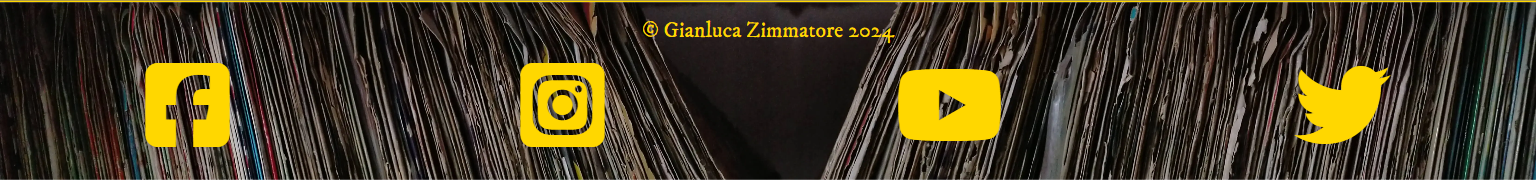
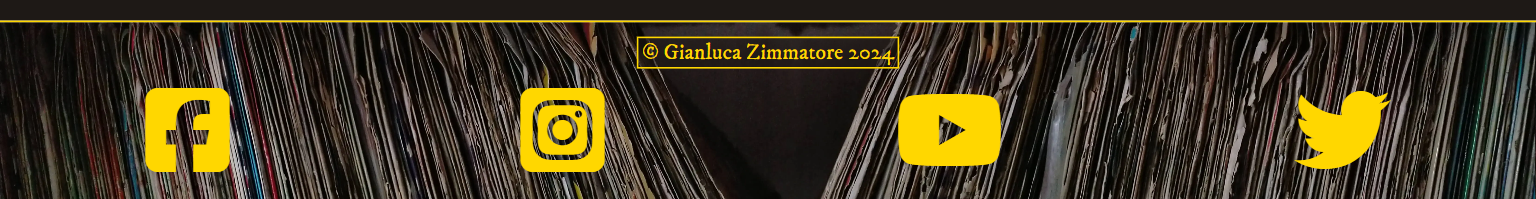
Change footer height and add pictures to README.md

diff --git a/assets/css/style.css b/assets/css/style.css
@@ -604,7 +604,7 @@ footer {
     background-repeat: no-repeat;
     background-size: cover;
     border-top: 1px solid gold;
-    height: 90px;
+    height: 95px;
     width: 100%;
     text-align: center;
 }

diff --git a/README.md b/README.md
@@ -290,7 +290,7 @@ The page consists of four pages (plus the 404.html page) and eleven general feat
 
 ![Gallery](docs/features/gallery-smartphone.png)
 
-#**Desktop Version**
+**Desktop Version**
 
 ![Gallery](docs/features/gallery-larger.png)
 <br>
@@ -310,7 +310,7 @@ The page consists of four pages (plus the 404.html page) and eleven general feat
 - it has a thin golden top border to visually separate it from the main content;
 - it shows the same background image of the header, where the navigation bar is, in order to give a sense of stability to the user;
 - it contains the copyright information and the links to the Facebook, Instagram, YouTube and Tweeter pages of Altera Musica;
-- when hovered over, these icon-links behave like the elements on the navigation bar, inverting their colours.
+- when hovered over, these icon-links partially behave like the elements on the navigation bar, adding a background colour.
 
 **Desktop Version**
 
